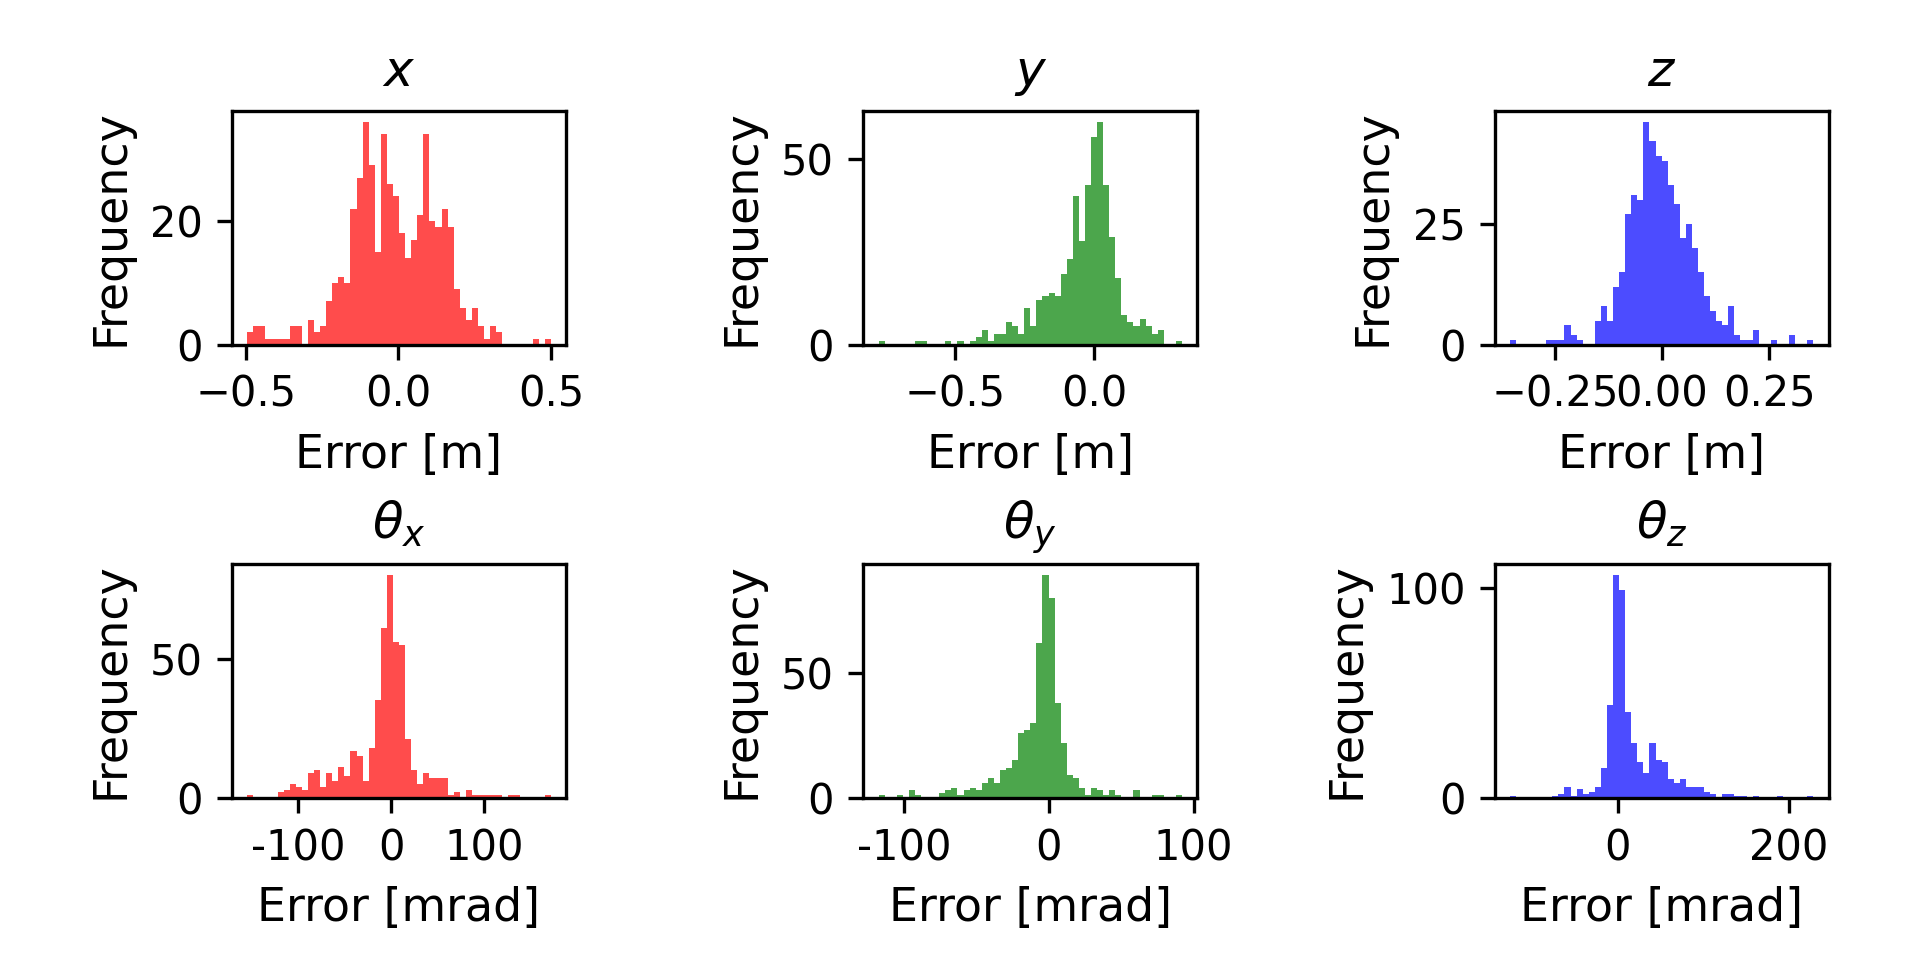
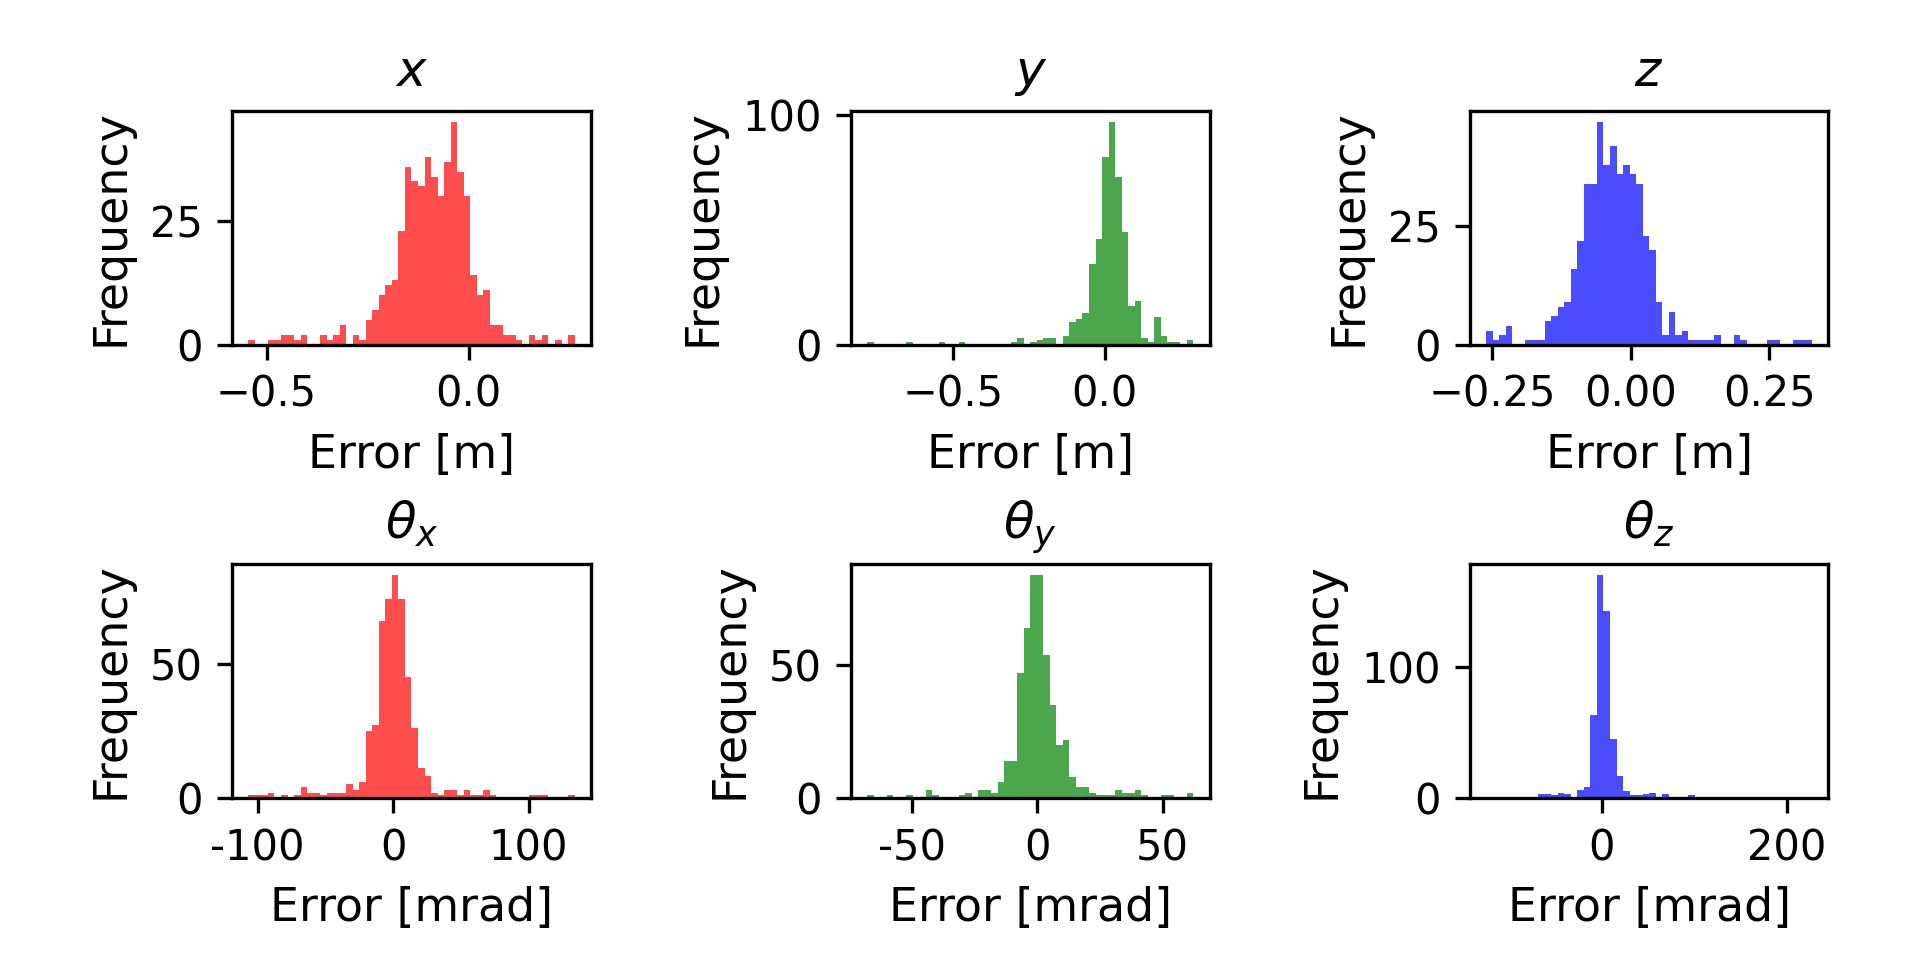
Changed start frame for vision assessment to be earlier due to limited data

diff --git a/analysis/vision_assessment.py b/analysis/vision_assessment.py
@@ -46,7 +46,7 @@ with open(os.path.join(dataset_path,'right_images.txt')) as f:
 if len(left_images) != len(right_images):
     raise ValueError("The number of left and right images do not match.")
 
-START_FRAME = 500
+START_FRAME = 200
 
 first_valid_index = next(i for i, ts in enumerate(image_timestamps) if ts >= first_gt_time)
 image_timestamps = image_timestamps[first_valid_index+START_FRAME:]
